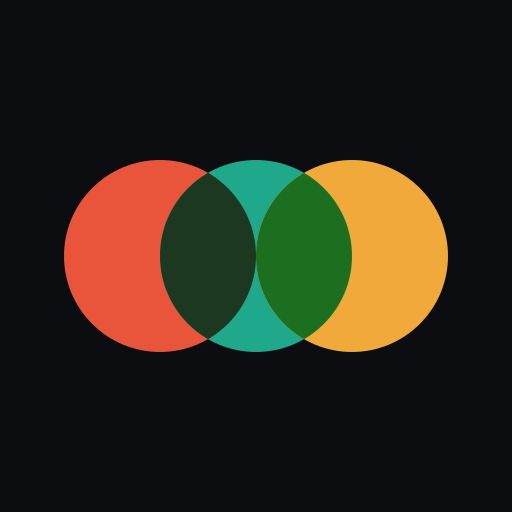
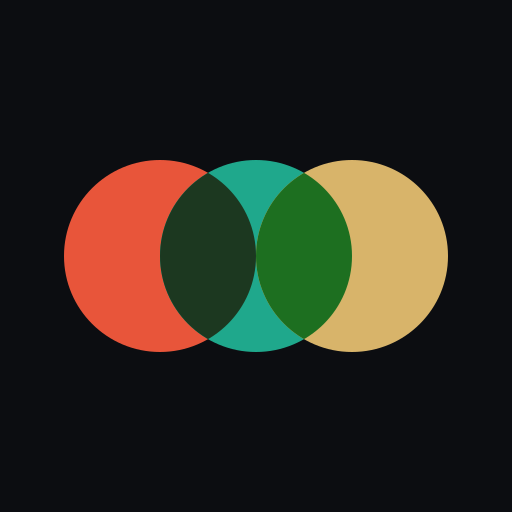
Add files via upload

Changed region(s): [[0.5938, 0.3125, 0.875, 0.6875]]

diff --git a/app.js b/app.js
@@ -228,7 +228,6 @@ function bindCoverAccent(element, coverUrl, fallbackImageUrl = "") {
   if (!cleanUrl && !cleanFallbackUrl) {
     delete element.dataset.coverAccentUrl;
     delete element.dataset.coverAccentFallback;
-    delete element.dataset.coverAccentTheme;
     delete element.dataset.coverAccent;
     element.style.removeProperty("--accent");
     element.style.removeProperty("--accent-2");
@@ -237,8 +236,6 @@ function bindCoverAccent(element, coverUrl, fallbackImageUrl = "") {
   }
   element.dataset.coverAccentUrl = cleanUrl || cleanFallbackUrl;
   element.dataset.coverAccentFallback = cleanUrl && cleanFallbackUrl ? cleanFallbackUrl : "";
-  const theme = document.documentElement.getAttribute("data-theme") || "dark";
-  element.dataset.coverAccentTheme = theme;
   element.style.removeProperty("--accent");
   element.style.removeProperty("--accent-2");
   element.style.removeProperty("--accent-glow");
@@ -246,9 +243,9 @@ function bindCoverAccent(element, coverUrl, fallbackImageUrl = "") {
   const identity = element.dataset.coverAccentUrl;
   const fallbackIdentity = element.dataset.coverAccentFallback;
   (async () => {
-    let accent = await coverAccentForUrl(identity, theme);
-    if (!accent && fallbackIdentity) accent = await coverAccentForUrl(fallbackIdentity, theme);
-    if (!element.isConnected || element.dataset.coverAccentUrl !== identity || element.dataset.coverAccentFallback !== fallbackIdentity || element.dataset.coverAccentTheme !== theme) return;
+    let accent = await coverAccentForUrl(identity);
+    if (!accent && fallbackIdentity) accent = await coverAccentForUrl(fallbackIdentity);
+    if (!element.isConnected || element.dataset.coverAccentUrl !== identity || element.dataset.coverAccentFallback !== fallbackIdentity) return;
     if (!accent) {
       element.dataset.coverAccent = "fallback";
       return;
@@ -256,12 +253,6 @@ function bindCoverAccent(element, coverUrl, fallbackImageUrl = "") {
     applyCoverAccent(element, accent);
     if (element.matches(".detail-modal, .modal-wizard, .edit-modal")) syncSystemBar(_currentPage, null, accent.system);
   })().catch(() => { if (element.isConnected) element.dataset.coverAccent = "fallback"; });
-}
-
-function refreshOpenCoverAccent() {
-  document.querySelectorAll("[data-cover-accent-url]").forEach(element => {
-    bindCoverAccent(element, element.dataset.coverAccentUrl, element.dataset.coverAccentFallback);
-  });
 }
 
 function hydrateFadeImages(root = document) {
@@ -301,8 +292,6 @@ async function init() {
       document.getElementById("app").innerHTML = '<div style="display:flex;align-items:center;justify-content:center;min-height:100vh;height:100dvh;color:#e05b5b;font-family:sans-serif;flex-direction:column;gap:1rem;text-align:center;padding:max(2rem,env(safe-area-inset-top,0px)) max(2rem,env(safe-area-inset-right,0px)) max(2rem,env(safe-area-inset-bottom,0px)) max(2rem,env(safe-area-inset-left,0px))"><b>Configuration Supabase manquante</b><p style="font-size:var(--type-body);color:#a0a0b0">Renseignez les valeurs publiques Supabase dans config.js.</p></div>';
       return;
     }
-    applyTheme(localStorage.getItem("kulturo-theme") || CONFIG.app.defaultTheme);
-
     const sessionUser = await Auth.getSessionUser().catch(() => null);
     const existingUser = sessionUser || await Auth.getUser().catch(() => null);
     if (existingUser) {
@@ -354,32 +343,19 @@ if (document.readyState === 'loading') {
   queueMicrotask(init);
 }
 
-// ── Thème et barre système ────────────────────────────────────
+// ── Barre système ─────────────────────────────────────────────
 let _systemPage = "library";
 let _systemMediaType = null;
 
 function syncSystemBar(page = _systemPage, mediaType = _systemMediaType, customColor = null) {
   _systemPage = page || "library";
   _systemMediaType = mediaType || null;
-  const light = document.documentElement.getAttribute("data-theme") === "light";
-  const pageColors = light
-    ? { library: "#f3f1ec", upcoming: "#f0f1f5", journal: "#eff2f1", dashboard: "#f3efe7" }
-    : { library: "#0c0d11", upcoming: "#0e1017", journal: "#0c1011", dashboard: "#11100d" };
-  const mediaColors = light
-    ? { movie: "#f4e9ec", game: "#e9eef8", book: "#e9f3ee" }
-    : { movie: "#171014", game: "#0e131d", book: "#0d1713" };
+  const pageColors = { library: "#0c0d11", upcoming: "#0e1017", journal: "#0c1011", dashboard: "#11100d" };
+  const mediaColors = { movie: "#171014", game: "#0e131d", book: "#0d1713" };
   const color = customColor || (mediaType ? (mediaColors[mediaType] || pageColors[page]) : (pageColors[page] || pageColors.library));
   const meta = document.querySelector('meta[name="theme-color"]');
   if (meta) meta.setAttribute("content", color);
   document.documentElement.style.setProperty("--system-bar-color", color);
-}
-
-function applyTheme(t) {
-  document.documentElement.setAttribute("data-theme", t);
-  localStorage.setItem("kulturo-theme", t);
-  syncSystemBar();
-  refreshOpenCoverAccent();
-  // btn-theme removed
 }
 
 // ── Historique de navigation ──────────────────────────────────
@@ -673,7 +649,6 @@ function renderApp() {
     </nav>
   `;
 
-  applyTheme(localStorage.getItem("kulturo-theme") || CONFIG.app.defaultTheme);
   // Restaure le tri mémorisé
   const savedSort = localStorage.getItem("kulturo-sort");
   const allowedSorts = new Set(["created_at", "date_finished", "rating_desc", "rating_asc", "title"]);

diff --git a/style.css b/style.css
@@ -1,14 +1,14 @@
 /* ============================================================
    style.css — Kulturo Design System
    Police : Manrope (interface) + Newsreader (display)
-   Thème : dark par défaut · light en option
+   Thème : sombre
    ============================================================ */
 
 @import url('https://fonts.googleapis.com/css2?family=Manrope:wght@400;500;600;700;800&family=Newsreader:opsz,wght@6..72,400;6..72,600;6..72,700&display=swap');
 
 /* ── Variables ────────────────────────────────────────────── */
 :root {
-  /* Dark (défaut) */
+  /* Palette sombre */
   --bg:          #0c0d11;
   --bg-1:        var(--bg);
   --bg-2:        #13151b;
@@ -74,24 +74,6 @@
   --safe-right:  env(safe-area-inset-right, 0px);
   --safe-bottom: env(safe-area-inset-bottom, 0px);
   --safe-left:   env(safe-area-inset-left, 0px);
-}
-
-[data-theme="light"] {
-  --bg:          #f3f1ec;
-  --bg-2:        #ffffff;
-  --bg-3:        #ebe9e4;
-  --bg-4:        #dfddd7;
-  --border:      #d7d4cc;
-  --border-2:    #c8c4ba;
-  --text:        #1a1c22;
-  --text-2:      #565b67;
-  --text-3:      #747985;
-  --accent:      #a97724;
-  --accent-2:    #8e621d;
-  --accent-glow: rgba(169,119,36,.12);
-  --shadow:      0 4px 24px rgba(0,0,0,.10);
-  --shadow-lg:   0 8px 48px rgba(0,0,0,.15);
-  --text-1:      #111318;
 }
 
 /* ── Reset ────────────────────────────────────────────────── */
@@ -2312,9 +2294,6 @@ details[open] .advanced-summary::before { transform: rotate(90deg); }
     flex-shrink: 0;
     padding-right: 0;
   }
-  /* Garde uniquement le bouton thème, cache les autres boutons déco */
-  .topbar-right .btn-icon { display: none; }
-  .topbar-right .btn-icon.btn-theme { display: flex; }
   #loading-bar { grid-column: 1 / -1; }
 
   .badge { font-size: var(--type-caption); padding: .1rem .35rem; }

diff --git a/index.html b/index.html
@@ -1,5 +1,5 @@
 <!DOCTYPE html>
-<html lang="fr" data-theme="dark">
+<html lang="fr">
 <head>
   <meta charset="UTF-8" />
   <meta name="viewport" content="width=device-width, initial-scale=1.0, viewport-fit=cover" />
@@ -13,11 +13,11 @@
   <meta name="apple-mobile-web-app-capable" content="yes" />
   <meta name="apple-mobile-web-app-status-bar-style" content="black-translucent" />
   <meta name="apple-mobile-web-app-title" content="Kulturo" />
-  <link rel="apple-touch-icon" sizes="192x192" href="icon-192.png?v=3.2.13" />
+  <link rel="apple-touch-icon" sizes="192x192" href="icon-192.png?v=3.2.14" />
 
   <!-- Favicon -->
-  <link rel="icon" href="icon.svg?v=3.2.13" type="image/svg+xml" />
-  <link rel="icon" href="icon-192.png?v=3.2.13" type="image/png" sizes="192x192" />
+  <link rel="icon" href="icon.svg?v=3.2.14" type="image/svg+xml" />
+  <link rel="icon" href="icon-192.png?v=3.2.14" type="image/png" sizes="192x192" />
 
   <!-- CSS -->
   <link rel="stylesheet" href="style.css" />

diff --git a/config.js b/config.js
@@ -38,8 +38,7 @@ const CONFIG = {
   // ── App settings ────────────────────────────────────────
   app: {
     name: "Kulturo",
-    version: "3.2.13",
-    defaultTheme: "dark", // "dark" | "light"
+    version: "3.2.14",
     itemsPerPage: 24,
   },
 };

diff --git a/sw.js b/sw.js
@@ -4,7 +4,7 @@
 // ============================================================
 
 const CACHE_PREFIX = "kulturo-";
-const STATIC_CACHE = "kulturo-static-v52";
+const STATIC_CACHE = "kulturo-static-v53";
 const IMAGE_CACHE = "kulturo-images-v3";
 const CURRENT_CACHES = new Set([STATIC_CACHE, IMAGE_CACHE]);
 const MAX_IMAGE_ENTRIES = 120;

diff --git a/README.md b/README.md
@@ -64,10 +64,11 @@ Un espace discret pour découvrir l’activité des autres membres, séparé du 
 
 ## Version en cours
 
-**3.2.13**
+**3.2.14**
 
 La version actuelle poursuit le même objectif : rendre Kulturo plus clair, plus homogène et plus agréable à utiliser, surtout sur mobile.
 
+- identité recentrée sur une palette sombre unique : l’or du logo rejoint exactement celui de l’interface et les anciens styles du thème clair sont retirés ;
 - fiche média recentrée sur les actions immédiates : statut et reprise uniquement ; la note et le **Coup de cœur** restent réunis dans **Modifier**, sans point d’entrée redondant ;
 - nouvelle identité visuelle aux trois cercles, déclinée dans l’en-tête, le favicon et les icônes d’installation mobile ;
 - recherche réellement globale dans toute la bibliothèque, quel que soit le filtre ou le statut actif ;
@@ -81,6 +82,7 @@ Les densités **Standard** et **Compact** conservent leur présentation épurée
 
 ## Dernières évolutions
 
+- **3.2.14** — or du logo harmonisé avec l’interface et suppression complète de l’ancien mode clair devenu inaccessible.
 - **3.2.13** — actions rapides simplifiées autour du statut et de la reprise ; note, effacement et Coup de cœur restent accessibles depuis **Modifier**.
 - **3.2.12** — rebranding aux trois cercles et rythme uniformisé dans les actions rapides : reprise avant la note, espacements identiques et contrôles équilibrés.
 - **3.2.11** — fiche mobile allégée : libellé et score redondants retirés, Coup de cœur explicite et reprise replacée sur toute la largeur.
